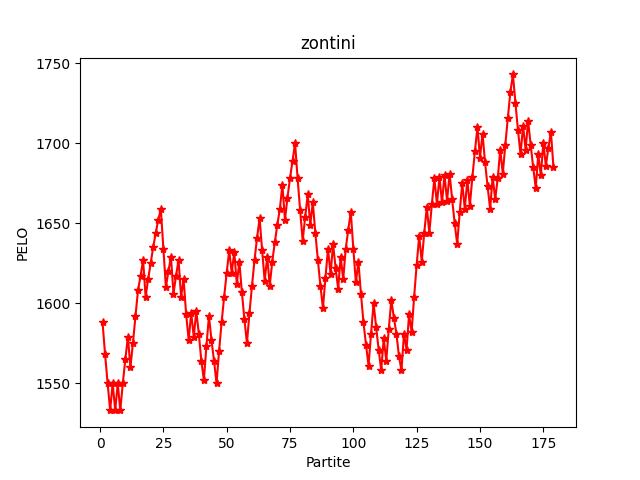
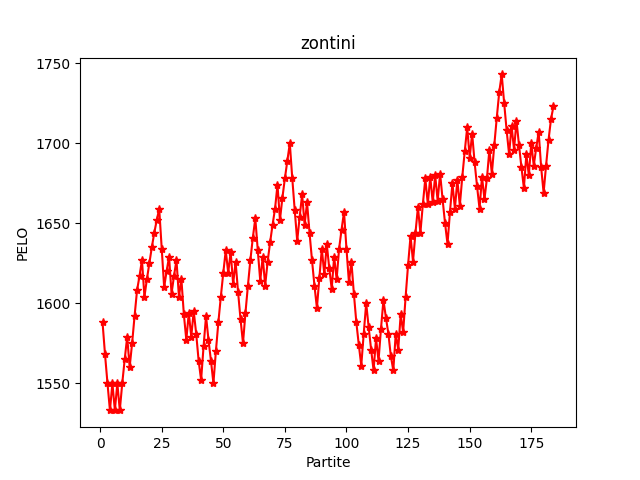
Add files via upload

diff --git a/index.htm b/index.htm
@@ -17,21 +17,21 @@
   <tbody>
     <tr>
       <th>0</th>
-      <td><a href='castellani.png'>castellani</a></td>
-      <td>1689</td>
-      <td>488</td>
-      <td>221</td>
-      <td>4617</td>
-      <td>4867</td>
+      <td><a href='zontini.png'>zontini</a></td>
+      <td>1723</td>
+      <td>276</td>
+      <td>146</td>
+      <td>2764</td>
+      <td>2701</td>
     </tr>
     <tr>
       <th>1</th>
-      <td><a href='zontini.png'>zontini</a></td>
-      <td>1685</td>
-      <td>271</td>
-      <td>142</td>
-      <td>2712</td>
-      <td>2654</td>
+      <td><a href='castellani.png'>castellani</a></td>
+      <td>1661</td>
+      <td>497</td>
+      <td>225</td>
+      <td>4706</td>
+      <td>4959</td>
     </tr>
     <tr>
       <th>2</th>
@@ -44,21 +44,21 @@
     </tr>
     <tr>
       <th>3</th>
+      <td><a href='caprile.png'>caprile</a></td>
+      <td>1623</td>
+      <td>204</td>
+      <td>120</td>
+      <td>2072</td>
+      <td>1845</td>
+    </tr>
+    <tr>
+      <th>4</th>
       <td><a href='devigili.png'>devigili</a></td>
       <td>1616</td>
       <td>13</td>
       <td>10</td>
       <td>136</td>
       <td>100</td>
-    </tr>
-    <tr>
-      <th>4</th>
-      <td><a href='caprile.png'>caprile</a></td>
-      <td>1606</td>
-      <td>198</td>
-      <td>117</td>
-      <td>2007</td>
-      <td>1782</td>
     </tr>
     <tr>
       <th>5</th>
@@ -89,6 +89,15 @@
     </tr>
     <tr>
       <th>8</th>
+      <td><a href='agus.png'>agus</a></td>
+      <td>1484</td>
+      <td>2</td>
+      <td>0</td>
+      <td>19</td>
+      <td>23</td>
+    </tr>
+    <tr>
+      <th>9</th>
       <td><a href='tronza.png'>tronza</a></td>
       <td>1443</td>
       <td>6</td>
@@ -97,7 +106,7 @@
       <td>64</td>
     </tr>
     <tr>
-      <th>9</th>
+      <th>10</th>
       <td><a href='scaglia.png'>scaglia</a></td>
       <td>1432</td>
       <td>15</td>
@@ -106,7 +115,7 @@
       <td>161</td>
     </tr>
     <tr>
-      <th>10</th>
+      <th>11</th>
       <td><a href='fiorentin.png'>fiorentin</a></td>
       <td>1368</td>
       <td>21</td>
